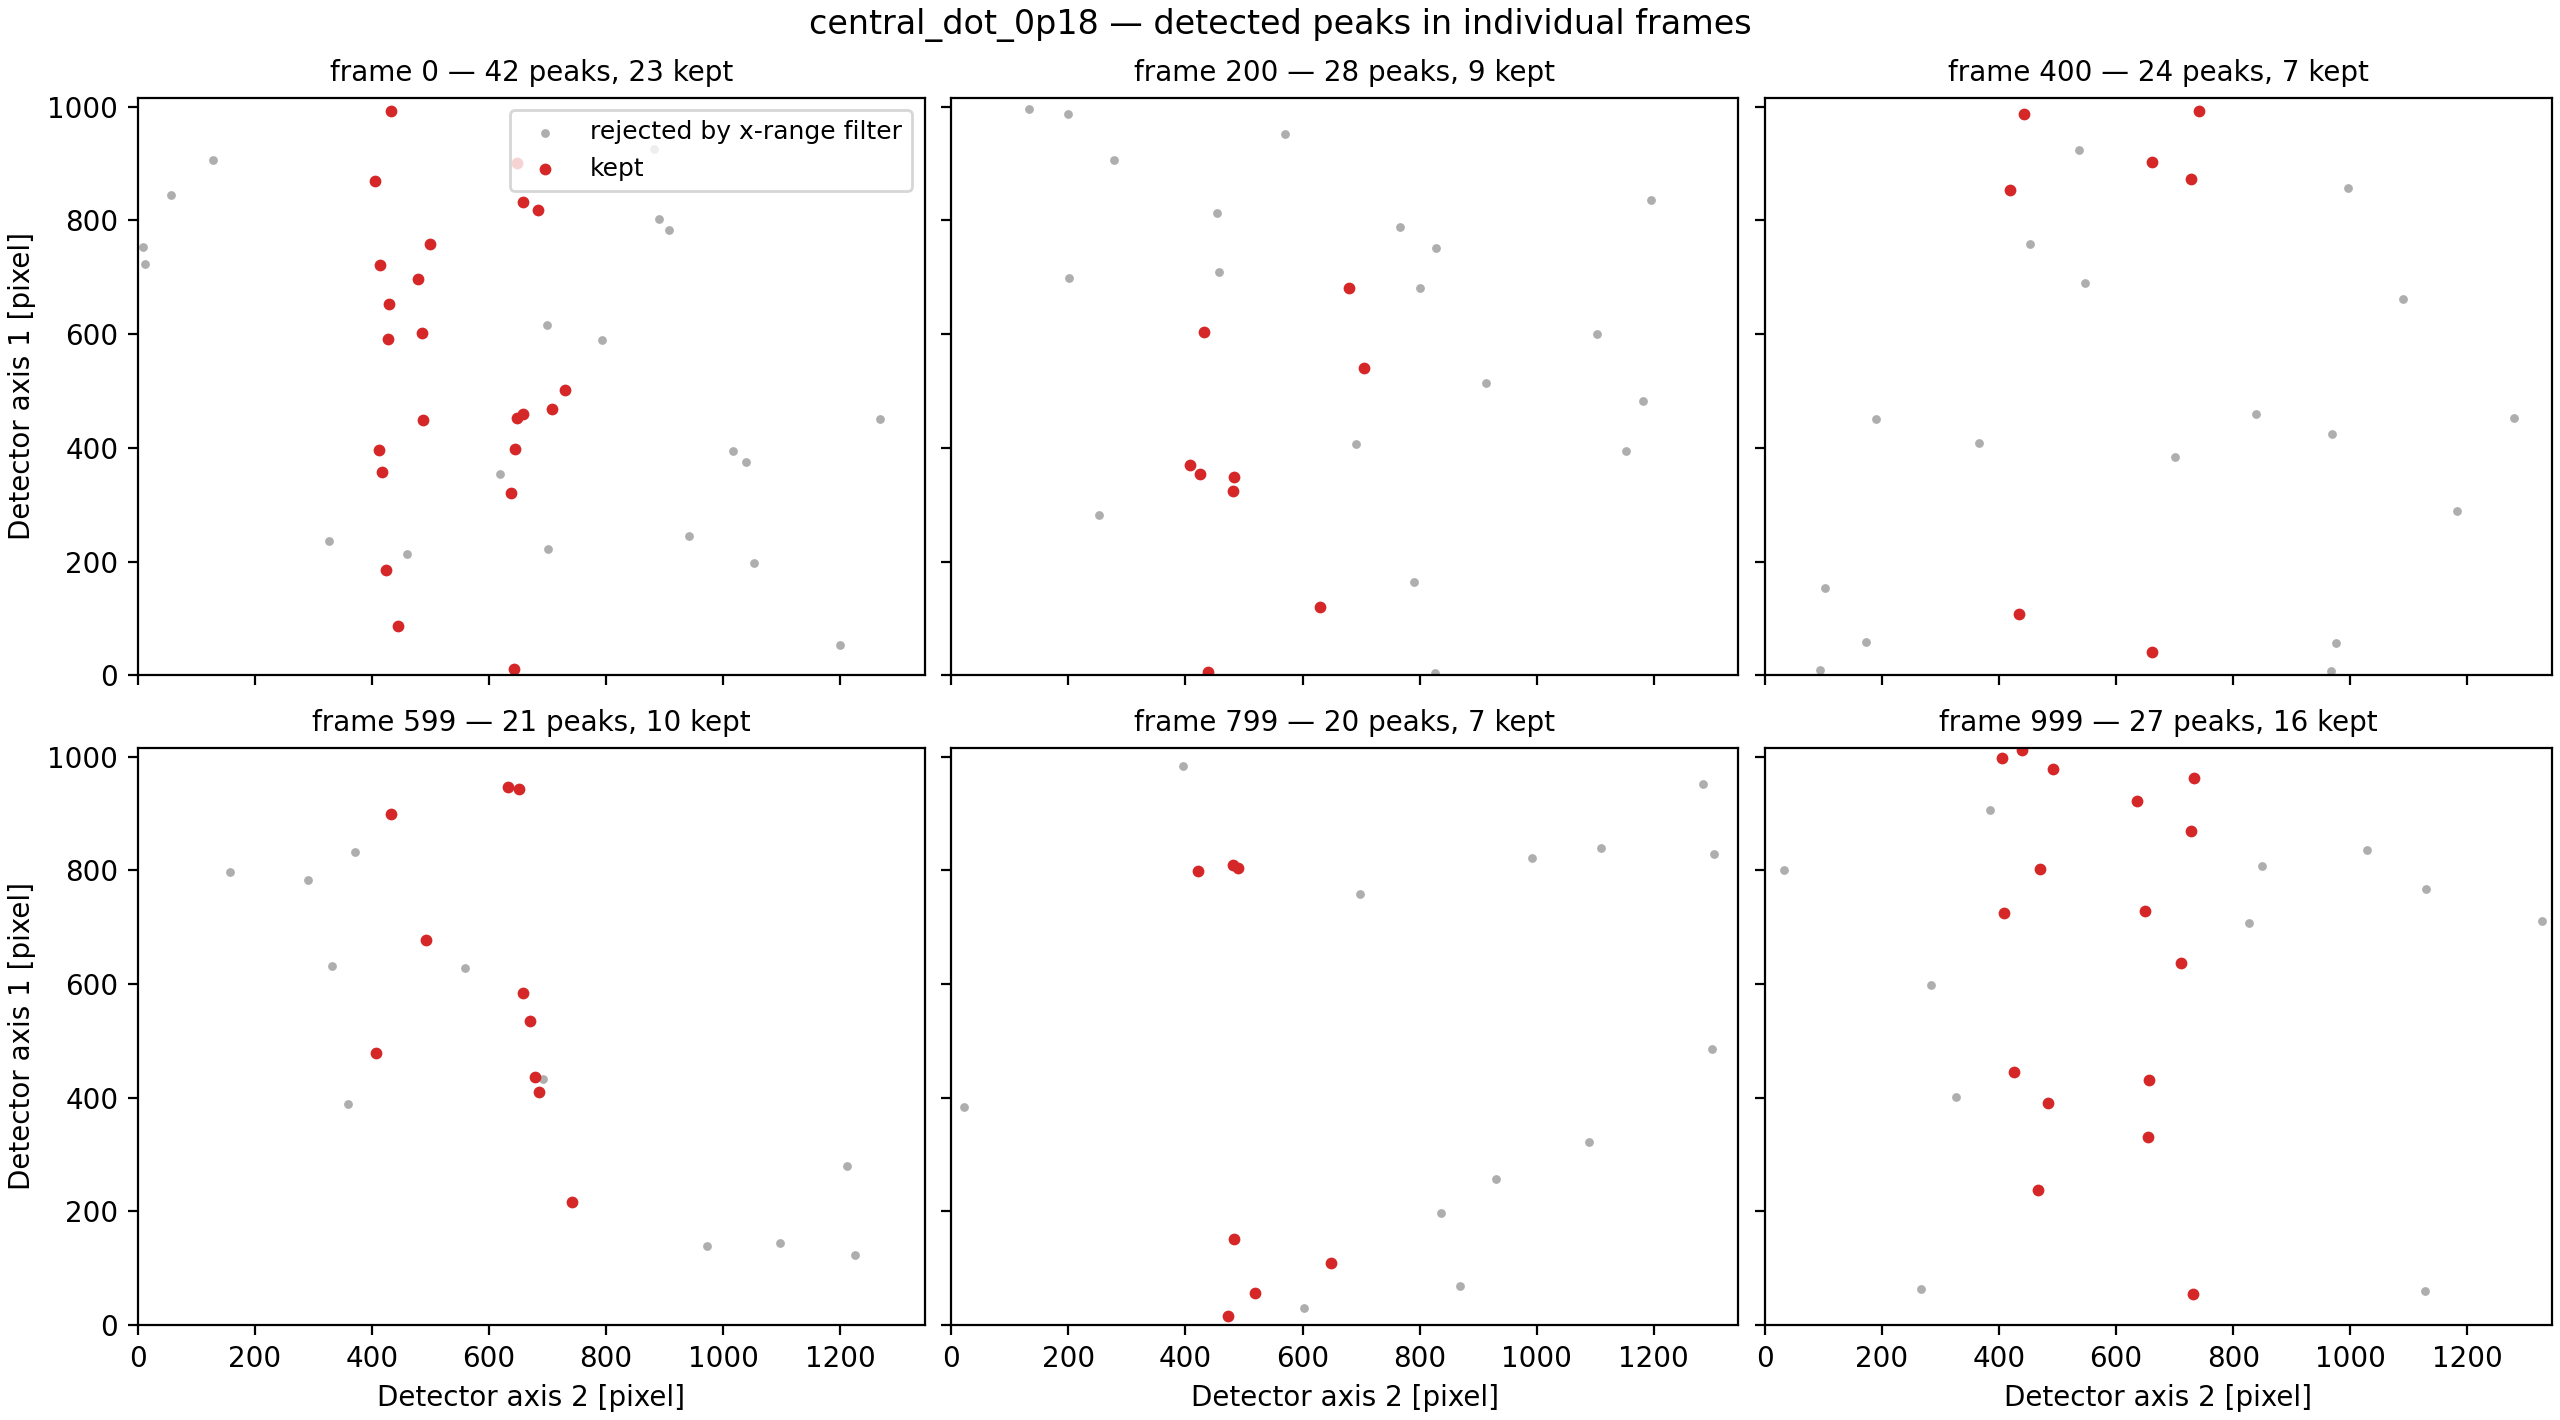
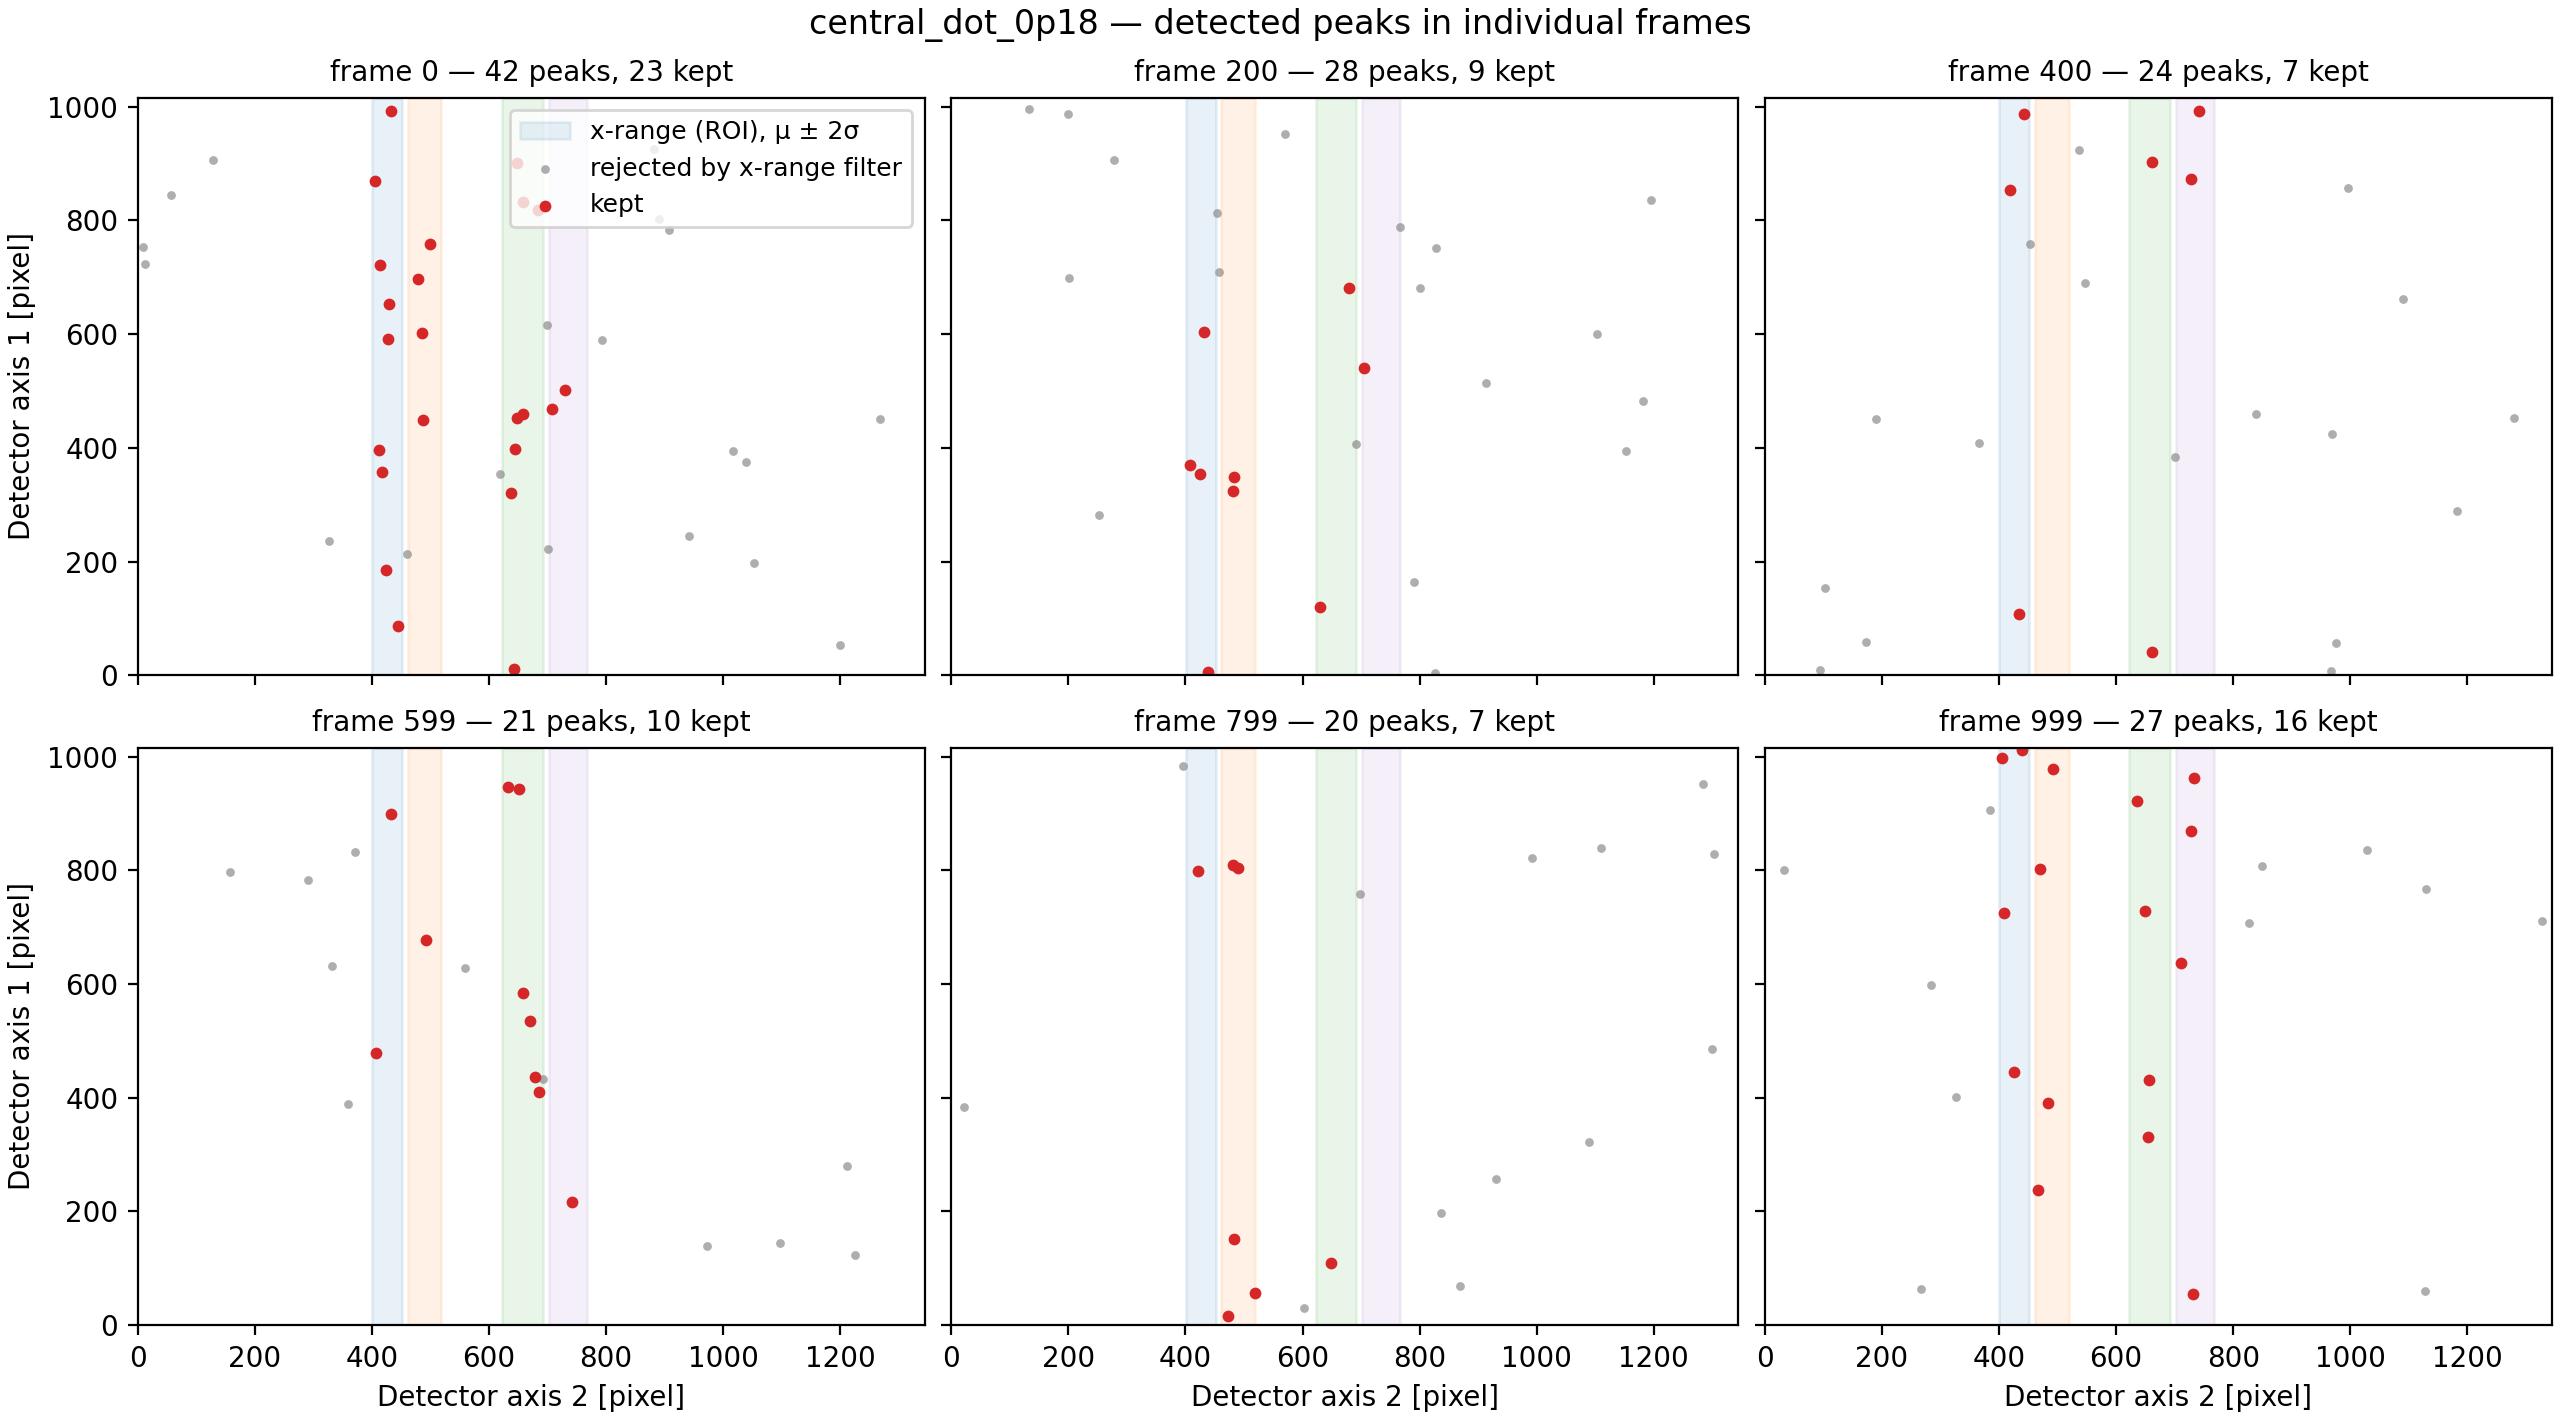
Shade the x-range (ROI) intervals on the per-frame peaks figure
save_frames_figure now draws the x-acceptance intervals as vertical
bands (same per-spot colors as the four-Gaussian fit figure) via a new
shade_x_ranges helper. Intervals are read from the filtered peak
table's x_range_intervals attribute at render time, so a future change
of the x-range definition only requires re-rendering. Regenerated the
frames PNG and documented the bands in both READMEs.

Model: kimi-code/k3-256k
Thinking: high

diff --git a/analysis/26-07-31-derived-single-sweep/visualize_detected_peaks.py b/analysis/26-07-31-derived-single-sweep/visualize_detected_peaks.py
@@ -158,6 +158,32 @@ def default_frames(frame_count: int, panels: int = 6) -> list[int]:
     return np.linspace(0, frame_count - 1, panels).round().astype(int).tolist()
 
 
+# Same left-to-right spot colors as the fit figure in fit_spot_x_ranges.py.
+SPOT_COLORS = ("tab:blue", "tab:orange", "tab:green", "tab:purple")
+
+
+def shade_x_ranges(
+    axis: plt.Axes,
+    intervals: np.ndarray,
+    label: str | None = None,
+) -> None:
+    """Shade the x-acceptance intervals (the ROI) on a detector-grid panel.
+
+    The intervals come from the filtered peak table's ``x_range_intervals``
+    attribute at render time, so any future change of the x-range definition
+    is reflected by re-rendering, with no edit here.
+    """
+    for index, (lower, upper) in enumerate(intervals):
+        axis.axvspan(
+            lower,
+            upper,
+            color=SPOT_COLORS[index % len(SPOT_COLORS)],
+            alpha=0.10,
+            zorder=0,
+            label=label if index == 0 else None,
+        )
+
+
 def save_frames_figure(
     full: dict,
     filtered: dict,
@@ -185,6 +211,11 @@ def save_frames_figure(
     frames = [int(frame_index) for frame_index in frames]
 
     intervals = filtered.get("x_range_intervals")
+    multiple = filtered.get("sigma_multiple_used")
+    if intervals is not None and multiple is not None:
+        range_label = f"x-range (ROI), μ ± {multiple:g}σ"
+    else:
+        range_label = "x-range (ROI)"
     rows = int(np.ceil(len(frames) / 3))
     figure, axes = plt.subplots(
         rows,
@@ -197,6 +228,8 @@ def save_frames_figure(
     )
     for panel, frame_index in enumerate(frames):
         axis = axes[panel // 3, panel % 3]
+        if intervals is not None:
+            shade_x_ranges(axis, intervals, label=range_label)
         in_frame = full["frame"] == frame_index
         xs = full["x"][in_frame]
         ys = full["y"][in_frame]

diff --git a/tests/test_visualize_detected_peaks.py b/tests/test_visualize_detected_peaks.py
@@ -257,6 +257,39 @@ class DefaultFramesTests(unittest.TestCase):
         self.assertEqual([0, 200, 400, 599, 799, 999], default_frames(1000))
 
 
+class ShadeXRangesTests(unittest.TestCase):
+    def test_shades_one_band_per_interval_with_label_on_the_first(self):
+        shade_x_ranges = load_module().shade_x_ranges
+        from matplotlib import pyplot as plt
+
+        figure, axis = plt.subplots()
+        shade_x_ranges(
+            axis,
+            np.array([[2.0, 8.0], [12.0, 18.0]]),
+            label="x-range (ROI)",
+        )
+
+        self.assertEqual(2, len(axis.patches))
+        xs = axis.patches[0].get_path().vertices[:, 0]
+        self.assertEqual((2.0, 8.0), (float(xs.min()), float(xs.max())))
+        xs = axis.patches[1].get_path().vertices[:, 0]
+        self.assertEqual((12.0, 18.0), (float(xs.min()), float(xs.max())))
+        self.assertEqual("x-range (ROI)", axis.patches[0].get_label())
+        self.assertIsNone(axis.patches[1].get_label())
+        plt.close(figure)
+
+    def test_omits_the_legend_entry_without_a_label(self):
+        shade_x_ranges = load_module().shade_x_ranges
+        from matplotlib import pyplot as plt
+
+        figure, axis = plt.subplots()
+        shade_x_ranges(axis, np.array([[2.0, 8.0]]))
+
+        self.assertEqual(1, len(axis.patches))
+        self.assertIsNone(axis.patches[0].get_label())
+        plt.close(figure)
+
+
 class SaveFramesFigureTests(unittest.TestCase):
     def build_tables(self):
         full = {

diff --git a/analysis/26-07-31-derived-single-sweep/README.md b/analysis/26-07-31-derived-single-sweep/README.md
@@ -137,9 +137,9 @@ $sandboxState = Get-Content .\tmp\sandbox-initialization.json -Raw | ConvertFrom
 `visualize_detected_peaks.py` 为 `detected-peaks/` 里的两个 HDF5 峰表生成两张可直接查看的 PNG（图就放在 `detected-peaks/` 里）：
 
 - [`detected-peaks/26-07-31_central_dot_0p18_detected_peaks_density.png`](detected-peaks/26-07-31_central_dot_0p18_detected_peaks_density.png)：探测器网格上的二维密度对照（4×4 px 分箱，两面板共享 sqrt 色标）。左面板为全量峰表全部 30542 个检出，四条亮带叠加在全探测器均匀分布的背景检出之上，淡蓝色带标出筛选保留的四个 x 接受区间（μ ± 2σ）；右面板为筛选后的 15958 个峰，只剩四条亮带。
-- [`detected-peaks/26-07-31_central_dot_0p18_detected_peaks_frames.png`](detected-peaks/26-07-31_central_dot_0p18_detected_peaks_frames.png)：单帧散点（默认均匀取 6 帧，可用 `--frames` 指定）。峰表的 `frame` 列记录每个峰的帧号，两个表都覆盖全部 1000 帧，因此可还原任意单帧：每帧仅约 20–40 个稀疏峰点，红色为落入保留区间的峰，灰色为被排除的背景检出。保留判据直接 import 自 `fit_spot_x_ranges.py` 的 `acceptance_mask`，不会与生产筛选漂移。
+- [`detected-peaks/26-07-31_central_dot_0p18_detected_peaks_frames.png`](detected-peaks/26-07-31_central_dot_0p18_detected_peaks_frames.png)：单帧散点（默认均匀取 6 帧，可用 `--frames` 指定）。峰表的 `frame` 列记录每个峰的帧号，两个表都覆盖全部 1000 帧，因此可还原任意单帧：每帧仅约 20–40 个稀疏峰点，红色为落入保留区间的峰，灰色为被排除的背景检出；四个 x 接受区间（ROI）以与拟合诊断图一致的蓝/橙/绿/紫色带标出，区间边界读自筛选峰表的 `x_range_intervals` 属性，未来改动 x-range 后重跑即可更新。保留判据直接 import 自 `fit_spot_x_ranges.py` 的 `acceptance_mask`，不会与生产筛选漂移。
 
-画布尺寸取全量峰表根属性的 `frame_shape`（筛选峰表不记录该属性）；保留区间与所用倍数读自筛选峰表的 `x_range_intervals`、`sigma_multiple_used` 属性。`--bin-size` 调分箱；输出拒绝覆盖。单元测试在 `tests/test_visualize_detected_peaks.py`（分箱坐标、属性读取、默认帧选取、拒绝覆盖、CLI 端到端）。
+画布尺寸取全量峰表根属性的 `frame_shape`（筛选峰表不记录该属性）；保留区间与所用倍数读自筛选峰表的 `x_range_intervals`、`sigma_multiple_used` 属性。`--bin-size` 调分箱；输出拒绝覆盖。单元测试在 `tests/test_visualize_detected_peaks.py`（分箱坐标、属性读取、默认帧选取、ROI 色带绘制、拒绝覆盖、CLI 端到端）。
 
 在项目根目录运行：
 

diff --git a/analysis/26-07-31-derived-single-sweep/detected-peaks/README.md b/analysis/26-07-31-derived-single-sweep/detected-peaks/README.md
@@ -15,7 +15,7 @@
 
 左：全量检出，四条亮带叠加在全探测器均匀背景检出上，淡蓝色带为四个保留 x 区间；右：筛选后只剩四条亮带。
 
-每个峰都带帧号（`frame` 列，0–999；两个表都覆盖全部 1000 帧），因此可以还原任意单帧的检出。下面六帧单帧散点是"单帧的处理"：每帧只有约 20–40 个稀疏峰点；红色为落入四个保留 x 区间的峰，灰色为被筛选排除的全探测器背景检出。
+每个峰都带帧号（`frame` 列，0–999；两个表都覆盖全部 1000 帧），因此可以还原任意单帧的检出。下面六帧单帧散点是"单帧的处理"：每帧只有约 20–40 个稀疏峰点；红色为落入四个保留 x 区间的峰，灰色为被筛选排除的全探测器背景检出；蓝/橙/绿/紫色带标出四个保留 x 区间（ROI，与 x 剖面拟合诊断图同色）。
 
 ![六帧单帧检出散点：红色为筛选保留的峰，灰色为被排除的峰](26-07-31_central_dot_0p18_detected_peaks_frames.png)
 
